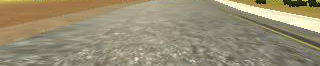
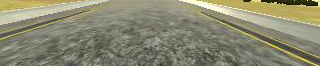
Fixed cropped images

diff --git a/model.py b/model.py
@@ -2,6 +2,7 @@ import csv
 import cv2
 import numpy as np
 from scipy import ndimage
+import matplotlib.image as mpimage
 
 lines = []
 
@@ -30,7 +31,7 @@ for line in lines:
         
         image = ndimage.imread(local_path)
         images.append(image)
-    
+
     measurement = float(line[3])    
     measurements.append(measurement)
     measurements.append(measurement + corr_fact)
